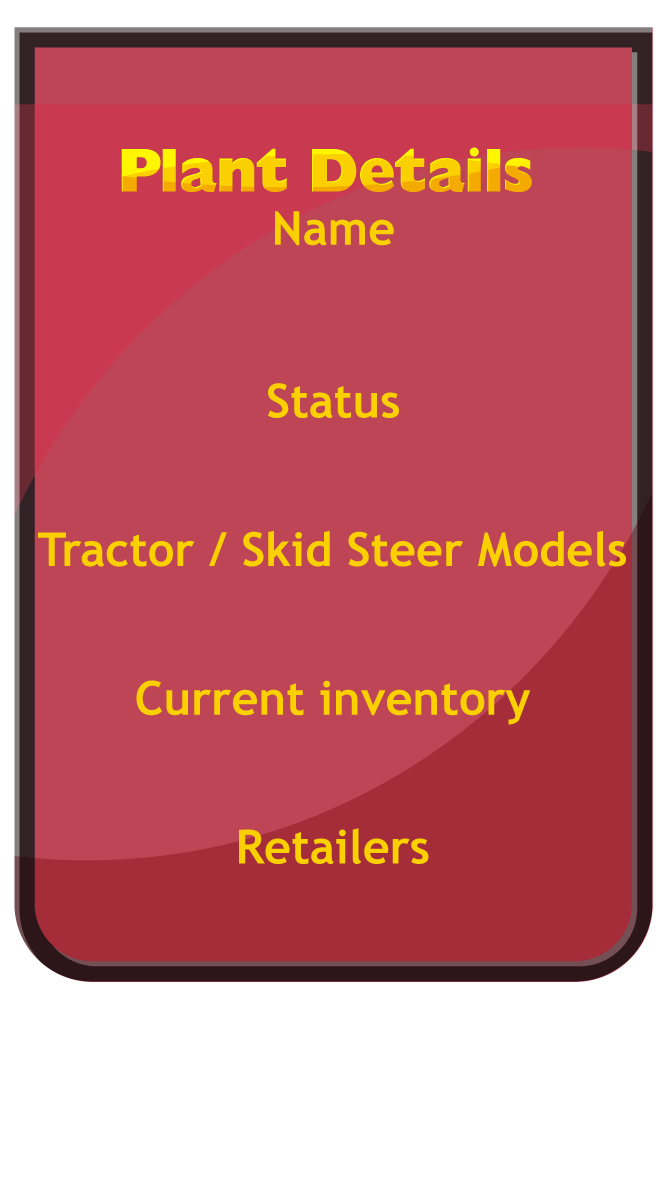
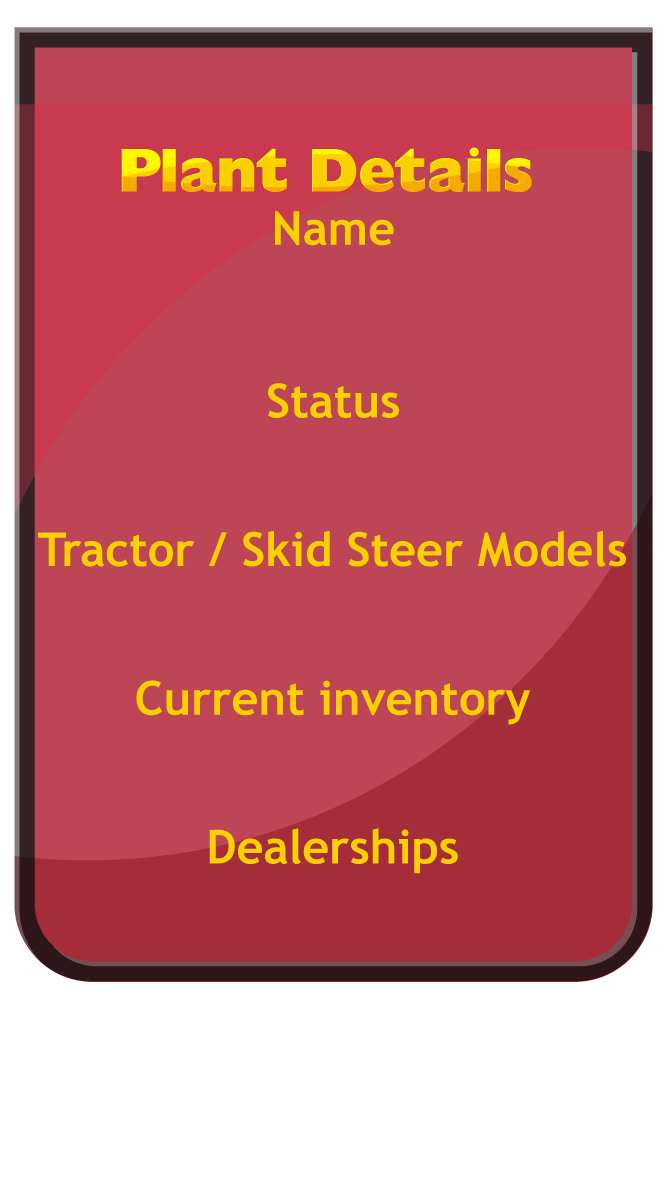
resolved a bunch of issues

Changed region(s): [[0.2985, 0.6852, 0.6866, 0.7475]]

diff --git a/public/src/js/game_logic.js b/public/src/js/game_logic.js
@@ -2,7 +2,7 @@ var ASPECT_RATIO = [9, 16];
 var GAME_NAME = 'global_trader_3_0';
 var FACEBOOK_URL = 'https://www.facebook.com/cnhitrade';
 var TIME_PER_TURN = 52;
-var TURN_TIME_INTERVAL = 3000;
+var TURN_TIME_INTERVAL = 1500;
 var US_DETAIL_GRID_CELLS = 6;
 var MACHINE_LIST_COLUMNS = 2; 
 var MACHINE_LIST_ICONS = 6;
@@ -664,7 +664,10 @@ var gameLogic = {
 				PWG.ViewManager.hideView('global:backButton');
 				PWG.ViewManager.showView('global:cancelButton');
 				PWG.ViewManager.showView('global:confirmButton');
-
+				
+				if(PWG.ScreenManager.currentId === 'buildingEdit') {
+					PWG.ViewManager.hideView('global:plantDetailGroup:equipmentButton');
+				}
 				PhaserGame.confirmAction = {
 					method: function() {
 						PhaserGame.addSupplier(PhaserGame.activeSupplier);
@@ -685,6 +688,9 @@ var gameLogic = {
 				PWG.ViewManager.hideView('global:cancelButton');
 				PWG.ViewManager.hideView('global:confirmButton');
 				PWG.ViewManager.removeView('notification', 'global:notifications');
+				if(PWG.ScreenManager.currentId === 'buildingEdit') {
+					PWG.ViewManager.showView('global:plantDetailGroup:equipmentButton');
+				}
 				PhaserGame.cancelAction = null;
 				PhaserGame.confirmAction = null;
 			},
@@ -803,7 +809,7 @@ var gameLogic = {
 				// trace('plant = ' + gameData.buildings.plant.cost);
 
 				if(TurnManager.playerData.bank > gameData.buildings.plant.cost) {
-					buildingCreatePrompt.views.title.text = notificationText.buildingCreate.content;
+					buildingCreatePrompt.views.title.text = notificationText.buildingCreate.content.toUpperCase();
 					PhaserGame.confirmAction = {
 						method: function() {
 							PWG.EventCenter.trigger({ type: Events.ADD_BUILDING });
@@ -813,7 +819,7 @@ var gameLogic = {
 					PWG.ViewManager.showView('global:confirmButton');
 					buildingCreatePrompt.views.cost.text = '$' + PWG.Utils.formatMoney(gameData.buildings.plant.cost, 0);
 				} else {
-					buildingCreatePrompt.views.title.text = notificationText.notEnoughMoney.content;
+					buildingCreatePrompt.views.title.text = notificationText.notEnoughMoney.content.toUpperCase();
 				}
 
 				PhaserGame.cancelAction = {
@@ -848,12 +854,12 @@ var gameLogic = {
 				var notification = PWG.Utils.clone(PhaserGame.config.dynamicViews.notification);
 				var dealershipPrompt = PWG.Utils.clone(PhaserGame.config.dynamicViews.dealershipPrompt);
 				
-				var config = PhaserGame.config.notificationText['dealership'];
+				var notificationText = PhaserGame.config.notificationText['dealership'];
 				
 				var modelName = event.plant.equipment[event.dealership.config.modelId].name;
 				var resell = PWG.Utils.formatMoney(event.dealership.config.resell, 0);
 				// trace('addDealershipOppurtunity, dealership = ', event.dealership);
-				var statementText = PWG.Utils.parseMarkup(config.statement, {
+				var statementText = PWG.Utils.parseMarkup(notificationText.content, {
 					plant: event.plant.name,
 					quantity: event.dealership.config.maxPerYear,
 					model: modelName,
@@ -862,7 +868,7 @@ var gameLogic = {
 
 				notification.views.person.img = PhaserGame.config.notificationPeopleImages['dealership'];
 				// notification.views.title.text = config.title;
-				notification.views.content.text = statementText;
+				notification.views.content.text = statementText.toUpperCase();
 				// trace('notification = ', notification);
 				
 				notification.views[dealershipPrompt.name] = dealershipPrompt;
@@ -905,14 +911,14 @@ var gameLogic = {
 				var plant = BuildingManager.findBuilding(dealership.config.plantId);
 				plant.dealershipNotifications[dealership.config.modelId] = false;
 			},
-			// DEALERSHIPS
+			// SUPPLIERS
 			addSupplierOpportunityNotification: function(event) {
 				trace('addSupplierOpportunityNotification, event = ', event);
 				var supplier = event.supplier;
 				var notification = PWG.Utils.clone(PhaserGame.config.dynamicViews.notification);
 				var supplierNotification = PWG.Utils.clone(PhaserGame.config.dynamicViews.supplierNotification);
 
-				var config = PhaserGame.config.notificationText['supplierNotification'];
+				var notificationText = PhaserGame.config.notificationText['supplierNotification'];
 
 				trace('addSupplierOppurtunity, supplier = ', event.supplier);
 				var partType = supplier.config.partType;
@@ -923,7 +929,7 @@ var gameLogic = {
 					typeText = PartDescriptions[partType] + 's';
 				}
 				var statementText = PWG.Utils.parseMarkup(
-					config.statement, 
+					notificationText.content, 
 					{
 						quantity: supplier.config.quantity,
 						type: (PartDescriptions[supplier.config.partType] + 's'),
@@ -933,7 +939,7 @@ var gameLogic = {
 
 				notification.views.person.img = PhaserGame.config.notificationPeopleImages['supplier'];
 				// notification.views.title.text = config.title;
-				notification.views.content.text = statementText;
+				notification.views.content.text = statementText.toUpperCase();
 				// trace('notification = ', notification);
 				PhaserGame.activeSupplier = supplier;
 				notification.views[supplierNotification.name] = supplierNotification;
@@ -943,7 +949,7 @@ var gameLogic = {
 			addSupplierPrompt: function() {
 				var supplierPrompt = PWG.Utils.clone(PhaserGame.config.dynamicViews.supplierPrompt);
 				var notificationText = PhaserGame.config.notificationText;
-				supplierPrompt.views.title.text = notificationText.supplierPrompt.statement;
+				supplierPrompt.views.title.text = notificationText.supplierPrompt.content.toUpperCase();
 				var global = PWG.ViewManager.getControllerFromPath('global');
 				PWG.ViewManager.addView(supplierPrompt, global, true);
 			},
@@ -966,12 +972,12 @@ var gameLogic = {
 				var notification = PWG.Utils.clone(PhaserGame.config.dynamicViews.notification);
 				var tradeRoutePrompt = PWG.Utils.clone(PhaserGame.config.dynamicViews.tradeRoutePrompt);
 
-				var config = PhaserGame.config.notificationText['tradeRoute'];
+				var notificationText = PhaserGame.config.notificationText['tradeRoute'];
 
 				var modelName = event.plant.equipment[event.tradeRoute.config.modelId].name;
 				var resell = PWG.Utils.formatMoney(event.tradeRoute.config.resell, 0);
 
-				var statementText = PWG.Utils.parseMarkup(config.statement, {
+				var statementText = PWG.Utils.parseMarkup(notificationText.content, {
 					plant: event.plant.name,
 					quantity: event.tradeRoute.quantityPerYear,
 					model: modelName,
@@ -982,7 +988,7 @@ var gameLogic = {
 				// notification.views.person.img = 'tradeRouteGirl';
 				notification.views.person.img = PhaserGame.config.notificationPeopleImages.tradeRoutes[TradeRouteLocations[event.tradeRoute.config.worldLocation]];
 				
-				notification.views.content.text = statementText;
+				notification.views.content.text = statementText.toUpperCase();
 				// trace('------ notification = ', notification);
 
 				tradeRoutePrompt.views.title.text = event.tradeRoute.config.name;
@@ -1300,7 +1306,7 @@ var gameLogic = {
 			addWholesalePartPrompt: function() {
 				var equipmentEdit = PWG.ViewManager.getControllerFromPath('equipmentEdit');
 				var wholesalePartPrompt = PWG.Utils.clone(PhaserGame.config.dynamicViews.wholesalePartPrompt);
-				wholesalePartPrompt.views.title.text = PhaserGame.config.notificationText.wholesaleParts.statement;
+				wholesalePartPrompt.views.title.text = PhaserGame.config.notificationText.wholesaleParts.content.toUpperCase();
 
 				PWG.ViewManager.addView(wholesalePartPrompt, equipmentEdit, true);
 				PhaserGame.wholesalePromptAdded = true;

diff --git a/public/src/js/config.js b/public/src/js/config.js
@@ -34,8 +34,8 @@ var GameConfig = function() {
 		var fontSizes = {
 			xxs: (gameUnit * 0.25),
 			xs: (gameUnit * 0.3),
-			sm: (gameUnit * 0.45),
-			md: (gameUnit * 0.66),
+			sm: (gameUnit * 0.4),
+			md: (gameUnit * 0.6),
 			lg: (gameUnit * 1.0),
 			xl: (gameUnit * 1.5)
 		};
@@ -1820,11 +1820,11 @@ var GameConfig = function() {
 					title: {
 						type: 'text',
 						name: 'menuItemTitle',
-						text: 'Discard New Machine?',
+						text: 'DISCARD\nCHANGES?',
 						x: 0,
 						y: gameUnit * 13,
 						style: {
-						    font: (fontSizes.md + 'px Trebuchet MS'),
+						    font: (fontSizes.sm + 'px Trebuchet MS'),
 					        fill: palette.orange3,
 							align: 'center'
 						},
@@ -2469,19 +2469,19 @@ var GameConfig = function() {
 					content: 'Add new Plant?'
 				},
 				dealership: {
-					statement: 'We would like to sell ~{quantity}~ per year\nof your ~{plant}~\n~{model}~ inventory\nat $~{resell}~ each.'
+					content: 'We would like to sell ~{quantity}~\nper year of your\n~{plant}~ ~{model}~\ninventory at $~{resell}~ each.'
 				},
 				supplierPrompt: {
-					statement: 'Click here for\nWholesale Parts',
+					content: 'Build Supplier\nRelationship',
 				},
 				supplierNotification: {
-					statement: 'We would like to offer you\n~{quantity}~ ~{size}~ ~{type}~\nfor the wholesale cost\nof ~{cost}~.'
+					content: 'We would like to offer you\n~{quantity}~ ~{size}~ ~{type}~\nfor the wholesale cost\nof ~{cost}~.'
 				},
 				wholesaleParts: {
-					statement: 'Click here to view\nwholesale parts'
+					content: 'Click here to view\nwholesale parts'
 				},
 				tradeRoute: {
-					statement: 'We would like to import ~{quantity}~\nper year of your ~{plant}~\n~{model}~ inventory\nat $~{resell}~ each.'
+					content: 'We would like to import ~{quantity}~\nper year of your ~{plant}~\n~{model}~ inventory\nat $~{resell}~ each.'
 				}
 			},
 			goalsText: {

diff --git a/public/src/js/game_data2.js b/public/src/js/game_data2.js
@@ -103,7 +103,7 @@ var gameData = {
 				spriteTranslations: {
 					tracks: 'tracks',
 					engine: 'engine',
-					threePointHitch: 'engine',
+					threePointHitch: 'transmission',
 					transmission: 'transmission',
 					headlights: 'engine'
 				}
@@ -772,7 +772,7 @@ var gameData = {
 	},
 	// level 2
 	{
-		startingBank: 600000,
+		startingBank: 100000,
 		brief: {
 			background: 'briefBg03',
 			text: [
@@ -801,7 +801,7 @@ var gameData = {
 	},
 	// level 3
 	{
-		startingBank: 600000,
+		startingBank: 100000,
 		brief: {
 			background: 'briefBg03',
 			text: [
@@ -830,7 +830,7 @@ var gameData = {
 	},
 	// level 4
 	{
-		startingBank: 600000,
+		startingBank: 100000,
 		brief: {
 			background: 'briefBg04',
 			text: [
@@ -864,7 +864,7 @@ var gameData = {
 	},
 	// level 5
 	{
-		startingBank: 600000,
+		startingBank: 100000,
 		brief: {
 			background: 'briefBg04',
 			text: [
@@ -881,7 +881,7 @@ var gameData = {
 	},
 	// level 6
 	{
-		startingBank: 600000,
+		startingBank: 100000,
 		brief: {
 			background: 'briefBg04',
 			text: [
@@ -916,7 +916,7 @@ var gameData = {
 	},
 	// level 7
 	{
-		startingBank: 600000,
+		startingBank: 100000,
 		brief: {
 			background: 'briefBg04',
 			text: [
@@ -950,7 +950,7 @@ var gameData = {
 	},
 	// level 8
 	{
-		startingBank: 600000,
+		startingBank: 100000,
 		brief: {
 			background: 'briefBg04',
 			text: [
@@ -973,7 +973,7 @@ var gameData = {
 	},
 	// level 9
 	{
-		startingBank: 600000,
+		startingBank: 100000,
 		brief: {
 			background: 'briefBg04',
 			text: [
@@ -1007,7 +1007,7 @@ var gameData = {
 	},
 	// level 10
 	{
-		startingBank: 600000,
+		startingBank: 100000,
 		brief: {
 			background: 'briefBg04',
 			text: [

diff --git a/public/src/js/wholesale_manager.js b/public/src/js/wholesale_manager.js
@@ -4,7 +4,7 @@ var WholesaleManager = function() {
 	module.SUPPLIERS_PER_PART_MAX = 3;			// max number of suppliers per part type
 	module.SUPPLIERS_PER_TURN_MULTIPLIER = 5; 	// random number x level of max suppliers available per turn
 	module.WEEK_LAG_AMOUNT = 3;						// delay between each timer (week) tick before possible supplier add
-	module.POSSIBILE_SUPPLIER_CHANCE = 1;		// 1 - x chance of adding a supplier (dice > this number)
+	module.POSSIBILE_SUPPLIER_CHANCE = 4;		// 1 - x chance of adding a supplier (dice > this number)
 	module.PARTS_COST_MODIFIER_MAX = 5;				// maximum cost to reduce parts cost by (100/multipler)
 	module.PARTS_COST_MODIFIER_MIN = 2;				// minium cost to reduce parts cost by (100/multiplier)
 	module.PARTS_QUANTITY_MAX = 10;					// maximum base quantity of parts
@@ -28,6 +28,7 @@ var WholesaleManager = function() {
 		module.notificationActive = false;
 		// establish 
 		module.turnMax = (Math.floor(Math.random() * (module.SUPPLIERS_PER_TURN_MULTIPLIER - 1) + 1)) + TurnManager.playerData.level;
+		trace('\tturnMax = ' + module.turnMax);
 		module.weekLag = 0;
 
 		PWG.Utils.each(
@@ -64,8 +65,7 @@ var WholesaleManager = function() {
 		if(!module.notificationActive) {
 			trace('WholesaleManager/update\n');
 			// haven't made max number of suppliers for this turn
-			// if(module.suppliersAdded < module.turnMax) { 
-			if(module.suppliersAdded < 1) { 
+			if(module.suppliersAdded < module.turnMax) { 
 				module.weekLag++;
 				// waited long enough since last new supplier
 				if(module.weekLag > module.WEEK_LAG_AMOUNT) {

diff --git a/public/src/js/turn_manager.js b/public/src/js/turn_manager.js
@@ -27,15 +27,18 @@ var TurnManager = function() {
 	module.init = function() {
 		// trace('--- TurnManager/init');
 		module.playerData = PWG.Utils.clone(PhaserGame.playerData);
-		module.playerData.bank += gameData.levels[module.playerData.level].startingBank;
+		trace('TURN MANAGER: bank = ' + module.playerData.bank);
 	};
 	
 	module.startTurn = function() {
 		// trace('--- TurnManager/startTurn');
 		module.currentData = PWG.Utils.clone(turnData);
+		trace('\tpre initiative, bank ' + module.playerData.bank);
+		module.playerData.bank += gameData.levels[module.playerData.level].startingBank;
+		trace('\tpost initiative, bank = ' + module.playerData.bank);
 		module.tempDealershipCount = (module.playerData.buildingCount.dealership);
 		// TurnManager.tempTradeRouteCount = (module.playerData.buildingCount.tradeRoute);
-		module.tempSupplierCount = (module.playerData.suppliers.length);
+		module.tempSupplierCount = (module.playerData.suppliers.length) || 0;
 
 		module.tempTradeRouteCount = {
 			africa: 0,
@@ -162,7 +165,7 @@ var TurnManager = function() {
 	};
 	
 	module.addSupplier = function(supplier) {
-		module.playerData.supplier[supplier.sector][supplier.id] = supplier;
+		module.playerData.suppliers[supplier.id] = supplier;
 		module.currentData.newSuppliers.push(supplier);
 		module.playerData.bonusPoints += gameData.bonuses.suppliers.added;
 		PWG.EventCenter.trigger({ type: Events.BONUSES_UPDATED });

diff --git a/public/src/js/building_manager.js b/public/src/js/building_manager.js
@@ -220,7 +220,7 @@ var BuildingManager = function() {
 		var resellMultiplier = Math.floor(Math.random() * (this.resellMaxMultiplier - 1) + 2);
 		// trace('resellMultilplier = ' + resellMultiplier);
 		Building.call(this, config);
-		this.config.resell = config.resell || (resellMultiplier * model.cost);
+		this.config.resell = config.resell || (resellMultiplier * model.cost) + module.MACHINE_PRODUCTION_COST;
 		this.config.maxPerYear = config.maxPerYear || Math.floor(Math.random() * (module.DEALERSHIP_MAX_SALES_PER_YEAR - module.DEALERSHIP_MIN_SALES_PER_YEAR) + module.DEALERSHIP_MIN_SALES_PER_YEAR);
 		this.config.inventory = config.inventory || [];
 		this.config.totalSales = config.totalSales || 0;
@@ -290,7 +290,7 @@ var BuildingManager = function() {
 		var model = plant.config.equipment[config.modelId];
 		var resellMultiplier = Math.floor(Math.random() * (this.resellMaxMultiplier - 1) + 3);
 		Building.call(this, config);
-		this.config.resell = config.resell || (resellMultiplier * model.cost);
+		this.config.resell = config.resell || (resellMultiplier * model.cost) + module.MACHINE_PRODUCTION_COST;
 		this.config.maxPerYear = config.maxPerYear || Math.floor(Math.random() * (module.TRADE_ROUTE_MAX_SALES_PER_YEAR - module.TRADE_ROUTE_MIN_SALES_PER_YEAR) + module.DEALERSHIP_MIN_SALES_PER_YEAR);
 		this.config.inventory = config.inventory || [];
 		this.config.totalSales = config.totalSales || 0;
